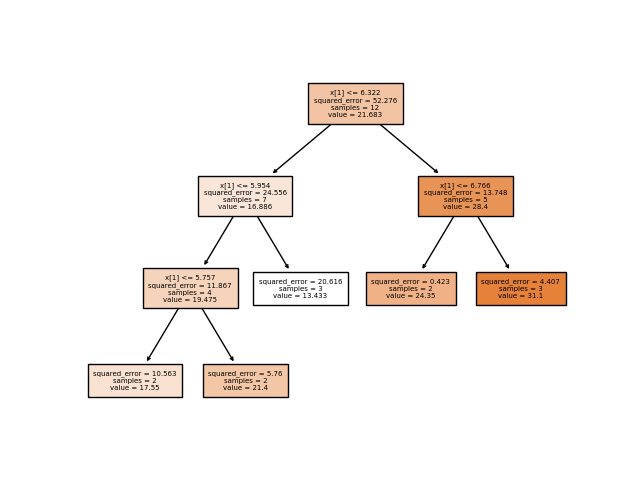
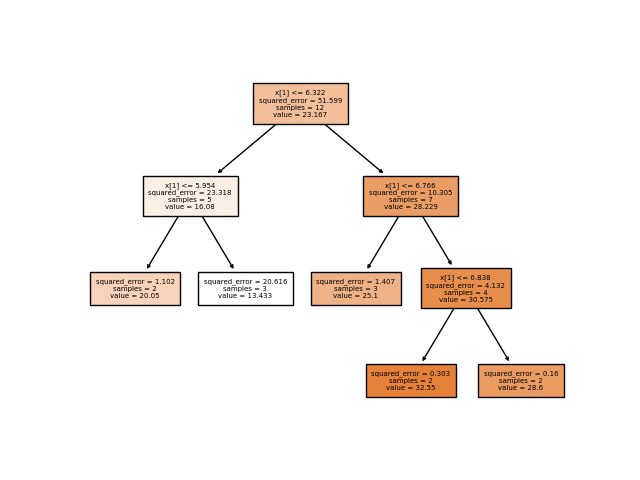
test

diff --git a/tree2.py b/tree2.py
@@ -9,7 +9,7 @@ data = pd.read_csv('boston.csv')
 
 included_rows = [505, 324, 167, 129, 418, 471,
                  299, 270, 466, 187, 307, 481,  85, 277, 362]
-included_columns = ['CRIM', 'RM', 'Price']
+included_columns = ['CRIM', 'RM', 'TAX', 'Price']
 data = data.loc[included_rows, included_columns]
 
 # Convert the DataFrame to a NumPy array

diff --git a/tree.py b/tree.py
@@ -112,7 +112,7 @@ class DecisionTreeRegressor():
 
 
 x_train, y_train = train_split(boston, 'Price')
-regressor = DecisionTreeRegressor(min_samples_leaf=5)
+regressor = DecisionTreeRegressor(min_samples_leaf=2)
 regressor.fit(x_train, y_train)
 print(boston)
 print(regressor.root)
